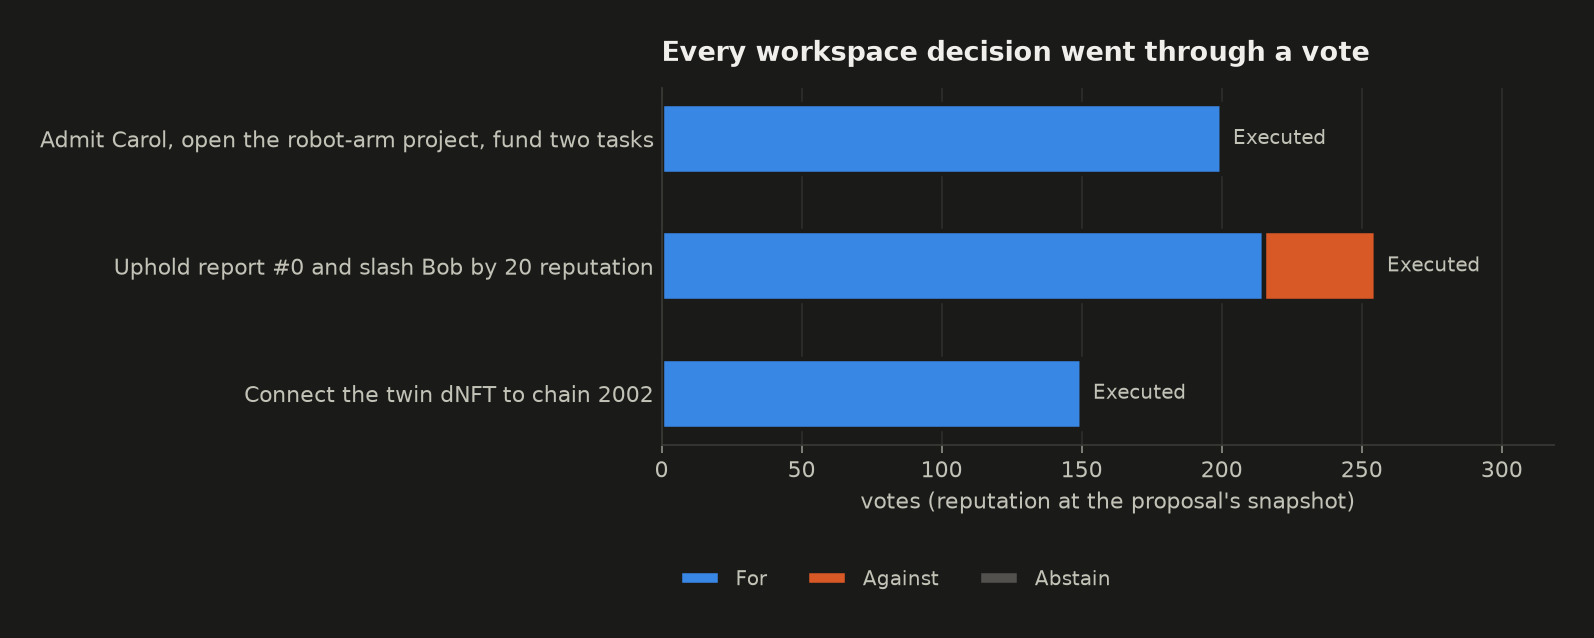
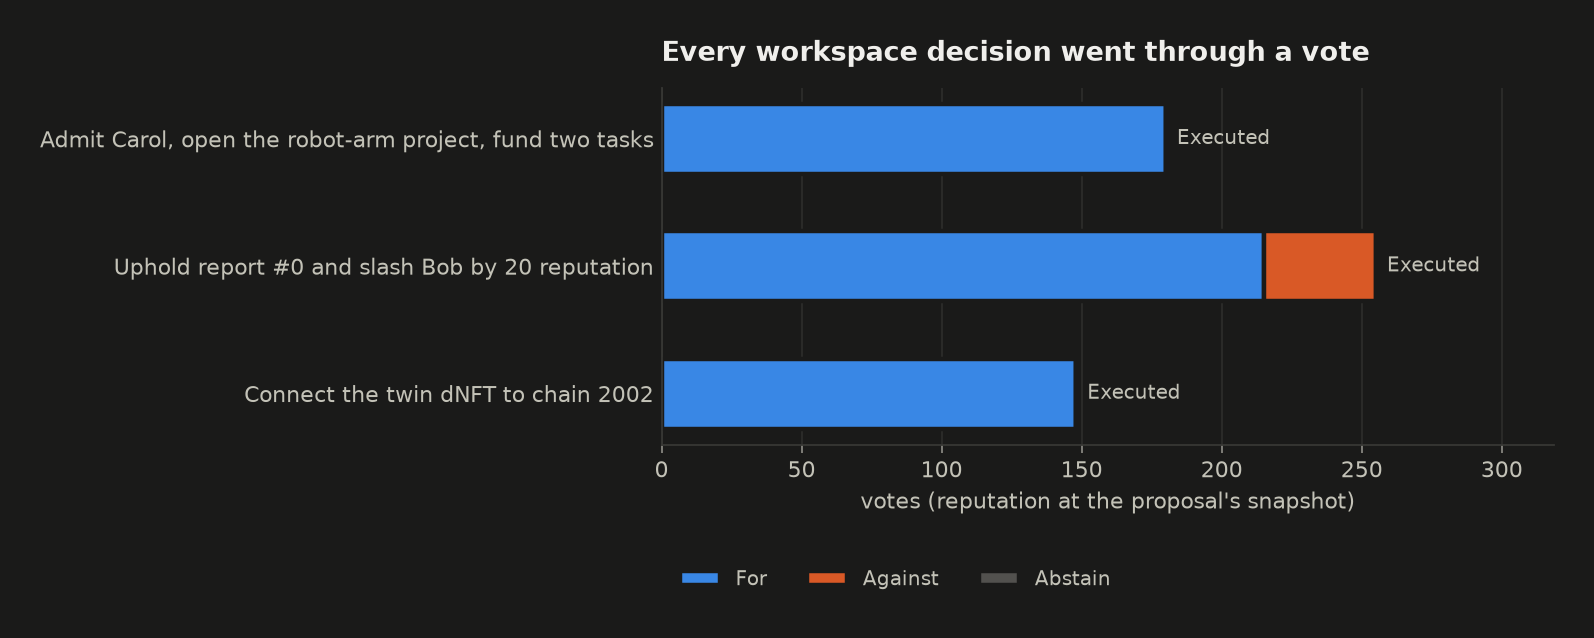
WP1 D1.2: voting cap and production deployment
- TwinTeamGovernor: optional cap on one member's voting weight
  (default 40% of total reputation at the snapshot), changeable only by
  vote; limits founding members' power until reputation is rebalanced
- scripts/deploy-dao.js: production defaults (~1 day delay, ~1 week
  voting, 2-day timelock), founders from FOUNDERS, post-deployment
  checks that the deployer kept no rights; Sepolia network via .env
- 2 new tests (53 total); scenario, figures and README updated

Changed region(s): [[0.707, 0.1489, 0.83, 0.268], [0.6455, 0.5658, 0.7685, 0.6552]]

diff --git a/wp1-dao-collaboration/scripts/deploy-dao.js b/wp1-dao-collaboration/scripts/deploy-dao.js
@@ -1,0 +1,85 @@
+// Deploys the twin teams' DAO (D1.2) with production governance parameters.
+//
+//   npx hardhat run scripts/deploy-dao.js                      # in-memory dry run
+//   npx hardhat run scripts/deploy-dao.js --network sepolia    # needs .env (see .env.example)
+//
+// Founding members and their reputation come from FOUNDERS, a JSON list such as
+//   FOUNDERS='[{"address":"0xabc…","rep":100},{"address":"0xdef…","rep":60}]'
+// (defaults to three local test accounts). Block-based periods assume 12-second blocks;
+// override them with the variables below for chains with other block times.
+const { ethers, network } = require("hardhat");
+
+const env = (k, d) => (process.env[k] !== undefined && process.env[k] !== "" ? process.env[k] : d);
+const PRODUCTION = {
+  votingDelay: Number(env("VOTING_DELAY_BLOCKS", 7200)), // ≈ 1 day
+  votingPeriod: Number(env("VOTING_PERIOD_BLOCKS", 50400)), // ≈ 1 week
+  proposalThreshold: Number(env("PROPOSAL_THRESHOLD", 10)),
+  quorumPercent: Number(env("QUORUM_PERCENT", 20)),
+  maxVoteShareBps: Number(env("MAX_VOTE_SHARE_BPS", 4000)), // 40 %
+  minDelay: Number(env("TIMELOCK_DELAY_SECONDS", 2 * 24 * 3600)), // 2 days
+  reportBond: ethers.parseEther(env("REPORT_BOND_ETH", "0.05")),
+  reportReward: Number(env("REPORT_REWARD", 10)),
+};
+
+async function main() {
+  const [deployer, ...others] = await ethers.getSigners();
+  const founders = process.env.FOUNDERS
+    ? JSON.parse(process.env.FOUNDERS)
+    : [
+        { address: others[0].address, rep: 100 },
+        { address: others[1].address, rep: 60 },
+        { address: others[2].address, rep: 40 },
+      ];
+  console.log(`Network ${network.name} · deployer ${deployer.address}`);
+  console.table(PRODUCTION);
+
+  const reputation = await ethers.deployContract("DTReputation");
+  for (const f of founders) await (await reputation.mint(f.address, f.rep)).wait();
+
+  const timelock = await ethers.deployContract("TimelockController", [PRODUCTION.minDelay, [], [ethers.ZeroAddress], deployer.address]);
+  const governor = await ethers.deployContract("TwinTeamGovernor", [
+    await reputation.getAddress(),
+    await timelock.getAddress(),
+    PRODUCTION.votingDelay,
+    PRODUCTION.votingPeriod,
+    PRODUCTION.proposalThreshold,
+    PRODUCTION.quorumPercent,
+    PRODUCTION.maxVoteShareBps,
+  ]);
+  const workspace = await ethers.deployContract("TwinWorkspace", [
+    await reputation.getAddress(),
+    await timelock.getAddress(),
+    PRODUCTION.reportBond,
+    PRODUCTION.reportReward,
+  ]);
+  await Promise.all([reputation, timelock, governor, workspace].map((c) => c.waitForDeployment()));
+
+  await (await reputation.transferOwnership(await workspace.getAddress())).wait();
+  await (await timelock.grantRole(await timelock.PROPOSER_ROLE(), await governor.getAddress())).wait();
+  await (await timelock.grantRole(await timelock.CANCELLER_ROLE(), await governor.getAddress())).wait();
+  await (await timelock.renounceRole(await timelock.DEFAULT_ADMIN_ROLE(), deployer.address)).wait();
+
+  // Post-deployment checks (NFR-SEC-01): nobody but the governance path holds power.
+  const checks = {
+    "deployer has no timelock admin": !(await timelock.hasRole(await timelock.DEFAULT_ADMIN_ROLE(), deployer.address)),
+    "workspace owned by timelock": (await workspace.owner()) === (await timelock.getAddress()),
+    "reputation owned by workspace": (await reputation.owner()) === (await workspace.getAddress()),
+    "governor is the only proposer": await timelock.hasRole(await timelock.PROPOSER_ROLE(), await governor.getAddress()),
+  };
+  console.table(checks);
+  if (Object.values(checks).some((ok) => !ok)) throw new Error("post-deployment check failed");
+
+  console.log("\nDeployed:");
+  console.table({
+    DTReputation: await reputation.getAddress(),
+    TimelockController: await timelock.getAddress(),
+    TwinTeamGovernor: await governor.getAddress(),
+    TwinWorkspace: await workspace.getAddress(),
+  });
+  console.log("Next: transfer ownership of the project's DigitalTwinDNFT to the timelock, then fund the workspace.");
+}
+
+main().catch((err) => {
+  console.error(err);
+  process.exitCode = 1;
+});

diff --git a/wp1-dao-collaboration/test/TwinTeamDAO.test.js b/wp1-dao-collaboration/test/TwinTeamDAO.test.js
@@ -117,6 +117,37 @@ describe("TwinTeamDAO (governance end to end)", function () {
     expect(await d.governor.state(id)).to.equal(2); // Canceled
   });
 
+  it("caps a single member's voting weight at 40% of total reputation", async function () {
+    const d = await loadFixture(dao);
+    expect(await d.governor.maxVoteShareBps()).to.equal(4000);
+    // lead holds 100 of 200 reputation (50%) but votes with at most 80 (40%)
+    const r = await runProposal(d, d.lead, [await action(d.workspace, "grantReputation", [d.lead.address, 1])], "Reward the lead", [
+      { signer: d.lead, support: FOR },
+    ]);
+    expect(r.tally.for).to.equal(80);
+    // alice (60) + bob (40) together outvote the capped lead
+    const r2 = await runProposal(d, d.lead, [await action(d.workspace, "grantReputation", [d.lead.address, 50])], "Reward the lead again", [
+      { signer: d.lead, support: FOR },
+      { signer: d.alice, support: AGAINST },
+      { signer: d.bob, support: AGAINST },
+    ]);
+    expect(r2.state).to.equal("Defeated");
+  });
+
+  it("changes the voting cap only by vote, within bounds", async function () {
+    const d = await loadFixture(dao);
+    await expect(d.governor.setMaxVoteShare(5000)).to.be.revertedWithCustomError(d.governor, "GovernorOnlyExecutor");
+    await runProposal(d, d.alice, [await action(d.governor, "setMaxVoteShare", [0])], "Remove the voting cap", [
+      { signer: d.lead, support: FOR },
+      { signer: d.alice, support: FOR },
+    ]);
+    expect(await d.governor.maxVoteShareBps()).to.equal(0);
+    const Governor = await ethers.getContractFactory("TwinTeamGovernor");
+    const args = [await d.reputation.getAddress(), await d.timelock.getAddress(), 1, 20, 10, 20];
+    await expect(Governor.deploy(...args, 500)).to.be.revertedWithCustomError(Governor, "InvalidVoteShare");
+    await expect(Governor.deploy(...args, 10001)).to.be.revertedWithCustomError(Governor, "InvalidVoteShare");
+  });
+
   it("decides by vote which blockchains the twins can connect to (L3 link)", async function () {
     const d = await loadFixture(dao);
     const gateway = await ethers.deployContract("L3Gateway", [1001, [ethers.Wallet.createRandom().address], 1]);

diff --git a/wp1-dao-collaboration/lib/dao.js b/wp1-dao-collaboration/lib/dao.js
@@ -8,6 +8,7 @@ const DEFAULTS = {
   votingPeriod: 20, // blocks
   proposalThreshold: 10, // reputation points needed to propose
   quorumPercent: 20, // % of total reputation that must vote (for + abstain)
+  maxVoteShareBps: 4000, // no member's vote counts for more than 40% of total reputation (0 = no cap)
   minDelay: 3600, // timelock, seconds
   reportBond: ethers.parseEther("0.1"),
   reportReward: 10, // reputation for an upheld report
@@ -32,6 +33,7 @@ async function deployDAO(founders, overrides = {}) {
     config.votingPeriod,
     config.proposalThreshold,
     config.quorumPercent,
+    config.maxVoteShareBps,
   ]);
   const workspace = await ethers.deployContract("TwinWorkspace", [
     await reputation.getAddress(),

diff --git a/wp1-dao-collaboration/hardhat.config.js b/wp1-dao-collaboration/hardhat.config.js
@@ -1,9 +1,16 @@
 require("@nomicfoundation/hardhat-toolbox");
+require("dotenv").config();
+
+// Optional public test network, configured through environment variables (see .env.example).
+const { SEPOLIA_RPC_URL, DEPLOYER_PRIVATE_KEY } = process.env;
 
 /** @type import('hardhat/config').HardhatUserConfig */
 module.exports = {
   solidity: {
     version: "0.8.28",
     settings: { optimizer: { enabled: true, runs: 200 }, evmVersion: "cancun" },
+  },
+  networks: {
+    ...(SEPOLIA_RPC_URL && DEPLOYER_PRIVATE_KEY ? { sepolia: { url: SEPOLIA_RPC_URL, accounts: [DEPLOYER_PRIVATE_KEY] } } : {}),
   },
 };

diff --git a/wp1-dao-collaboration/README.md b/wp1-dao-collaboration/README.md
@@ -7,7 +7,7 @@
 [![WP1 contracts](https://github.com/smhbamakan/DeDT-platform/actions/workflows/wp1-contracts.yml/badge.svg)](https://github.com/smhbamakan/DeDT-platform/actions/workflows/wp1-contracts.yml)
 ![Solidity](https://img.shields.io/badge/Solidity-0.8.28-363636?logo=solidity)
 ![Hardhat](https://img.shields.io/badge/Hardhat-2.x-f0d50c?logo=ethereum&logoColor=black)
-![Tests](https://img.shields.io/badge/tests-51%20passing-brightgreen)
+![Tests](https://img.shields.io/badge/tests-53%20passing-brightgreen)
 ![Coverage](https://img.shields.io/badge/coverage-99%25-brightgreen)
 ![Objectives](https://img.shields.io/badge/objectives-O1%20%C2%B7%20O2-1e40af)
 
@@ -114,7 +114,7 @@ The proposal's answer to WP1 is a **DAO that gives twin teams a common virtual w
 | Contract | Role |
 |---|---|
 | [`DTReputation.sol`](contracts/dao/DTReputation.sol) | **Non-transferable reputation = voting power.** Earned by contributing, lost when misbehaviour is upheld; it cannot be bought or moved. Whole points; holders are self-delegated automatically. |
-| [`TwinTeamGovernor.sol`](contracts/dao/TwinTeamGovernor.sol) | **Proposals and voting** (for / against / abstain), proposal threshold, quorum as a share of total reputation. |
+| [`TwinTeamGovernor.sol`](contracts/dao/TwinTeamGovernor.sol) | **Proposals and voting** (for / against / abstain), proposal threshold, quorum as a share of total reputation, and a **voting cap**: no member's vote counts for more than 40 % of total reputation (changeable by vote). |
 | `TimelockController` (OpenZeppelin) | **Delay before execution**, so members can react to a decision before it takes effect. It owns the workspace and the dNFT bridge configuration. |
 | [`TwinWorkspace.sol`](contracts/dao/TwinWorkspace.sol) | **The workspace:** membership, twin projects, funded tasks run in parallel, computational experiments with endorsements, bonded misbehaviour reports, and the treasury. |
 
@@ -206,12 +206,12 @@ Three founding teams run the workspace together, and a fourth team joins by vote
 
 <picture>
   <source media="(prefers-color-scheme: dark)" srcset="docs/figures/dao-votes-dark.png">
-  <img alt="Stacked bars of votes for three proposals, all executed: 200 for 0 against; 215 for 40 against; 150 for 0 against." src="docs/figures/dao-votes-light.png" width="720">
+  <img alt="Stacked bars of votes for three proposals, all executed: 180 for 0 against; 215 for 40 against; 148 for 0 against." src="docs/figures/dao-votes-light.png" width="720">
 </picture>
 
 <picture>
   <source media="(prefers-color-scheme: dark)" srcset="docs/figures/dao-gas-dark.png">
-  <img alt="Gas per DAO action: propose 100k, vote 72k, queue 182k, execute a 4-action proposal 625k, claim 58k, submit 56k, approve 149k, experiment 151k, endorse 84k, report 171k." src="docs/figures/dao-gas-light.png" width="720">
+  <img alt="Gas per DAO action: propose 110k, vote 83k, queue 182k, execute a 4-action proposal 625k, claim 58k, submit 56k, approve 149k, experiment 151k, endorse 84k, report 171k." src="docs/figures/dao-gas-light.png" width="720">
 </picture>
 
 <details>
@@ -226,22 +226,24 @@ Three founding teams run the workspace together, and a fourth team joins by vote
 
 | Proposal | For | Against | Result |
 |---|---:|---:|---|
-| Admit Carol, open the robot-arm project, fund two tasks | 200 | 0 | Executed |
+| Admit Carol, open the robot-arm project, fund two tasks | 180 ¹ | 0 | Executed |
 | Uphold report #0 and slash Bob by 20 reputation | 215 | 40 | Executed |
-| Connect the twin dNFT to chain 2002 | 150 | 0 | Executed |
+| Connect the twin dNFT to chain 2002 | 148 ¹ | 0 | Executed |
 
 | Action | Gas |
 |---|---:|
-| Propose | 99,539 |
-| Cast vote (average) | 71,944 |
-| Queue in timelock | 181,909 |
-| Execute (4 actions) | 625,196 |
+| Propose | 110,242 |
+| Cast vote (average) | 82,672 |
+| Queue in timelock | 181,932 |
+| Execute (4 actions) | 625,241 |
 | Claim task | 58,405 |
 | Submit result | 55,508 |
 | Approve task (pays bounty, mints reputation) | 148,586 |
 | Submit experiment | 150,567 |
 | Endorse experiment | 84,476 |
 | File report (bonded) | 170,672 |
+
+¹ The lead holds 50 % of the reputation but votes with at most 40 % of the total because of the voting cap.
 </details>
 
 ### Governance parameters (defaults in [`lib/dao.js`](lib/dao.js))
@@ -252,7 +254,15 @@ Three founding teams run the workspace together, and a fourth team joins by vote
 | Voting period | 20 blocks | Short for the demo; use about one week of blocks in production |
 | Proposal threshold | 10 reputation | Minimum reputation to submit a proposal |
 | Quorum | 20 % | Share of total reputation that must vote *for* or *abstain* |
+| Voting cap | 40 % | Maximum weight of one member's vote; `setMaxVoteShare` by vote (0 = no cap) |
 | Timelock delay | 1 hour | Short for the demo; use 1–2 days in production |
+
+Production values (≈ 1 day delay, ≈ 1 week voting, 2-day timelock, 40 % cap) are the defaults of [`scripts/deploy-dao.js`](scripts/deploy-dao.js), which also checks after deployment that the deployer kept no rights:
+
+```bash
+npm run deploy:dao            # dry run on the in-memory network
+npm run deploy:dao:sepolia    # public test network; set FOUNDERS and keys in .env (see .env.example)
+```
 | Report bond / reward | 0.1 ETH / 10 reputation | Changeable by vote (`setParameters`) |
 
 ---
@@ -358,7 +368,7 @@ Dispatch cost by payload size: 32 B → 32,429 · 256 B → 37,933 · 1 KB → 6
 ```bash
 cd wp1-dao-collaboration
 npm install
-npm test             # 51 tests
+npm test             # 53 tests
 npm run demo         # the paper's 13 steps, end to end (D1.3)
 npm run dao-demo     # the DAO workspace scenario (D1.2) → results/dao.json
 npm run benchmark    # gas measurements → results/gas.json
@@ -464,7 +474,7 @@ Mirrors are **non-transferable**: access was granted to one specific team.
 - **Liveness:** relaying is permissionless, so anyone can deliver an attested message. Validators that go offline only delay delivery.
 - **Privacy:** only hashes and URIs cross the bridge. Zero-knowledge ownership proofs (paper §3.6.1) are planned in WP4.
 - **Two domains, one EVM:** tests and the demo simulate chains A and B as two gateways on one local network with different domain IDs. `lib/l3.js` takes ordinary ethers contracts, so the same code can relay between two real RPC endpoints.
-- **DAO:** reputation is earned, so early members hold more voting power; the DAO can rebalance it by vote (`grantReputation`, `expelMember`). The L3 validator set is rotated by the validators themselves, not by the DAO, so a captured DAO cannot take over the bridge.
+- **DAO:** reputation is earned, so founding members start with more of it. The voting cap limits any single member to 40 % of the vote, and the DAO can rebalance reputation by vote (`grantReputation`, `expelMember`). The L3 validator set is rotated by the validators themselves, not by the DAO, so a captured DAO cannot take over the bridge.
 - **Not yet implemented:** validator staking and slashing, fees for relayers, para-, side- and super-chain variants of the framework, and governance that spans several chains.
 
 > ⚠ Research prototype. It has not been audited, so do not use it with real assets.
